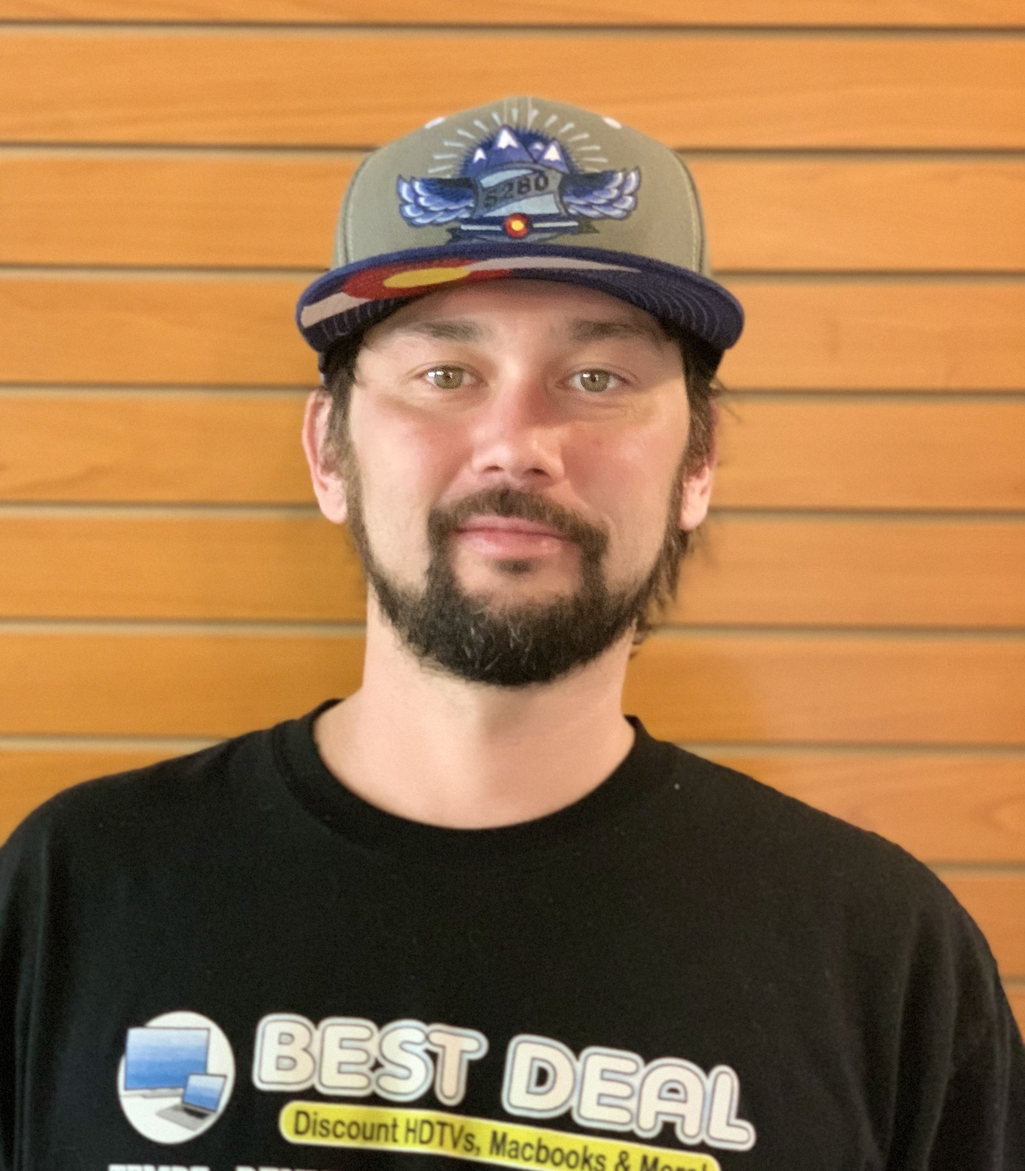
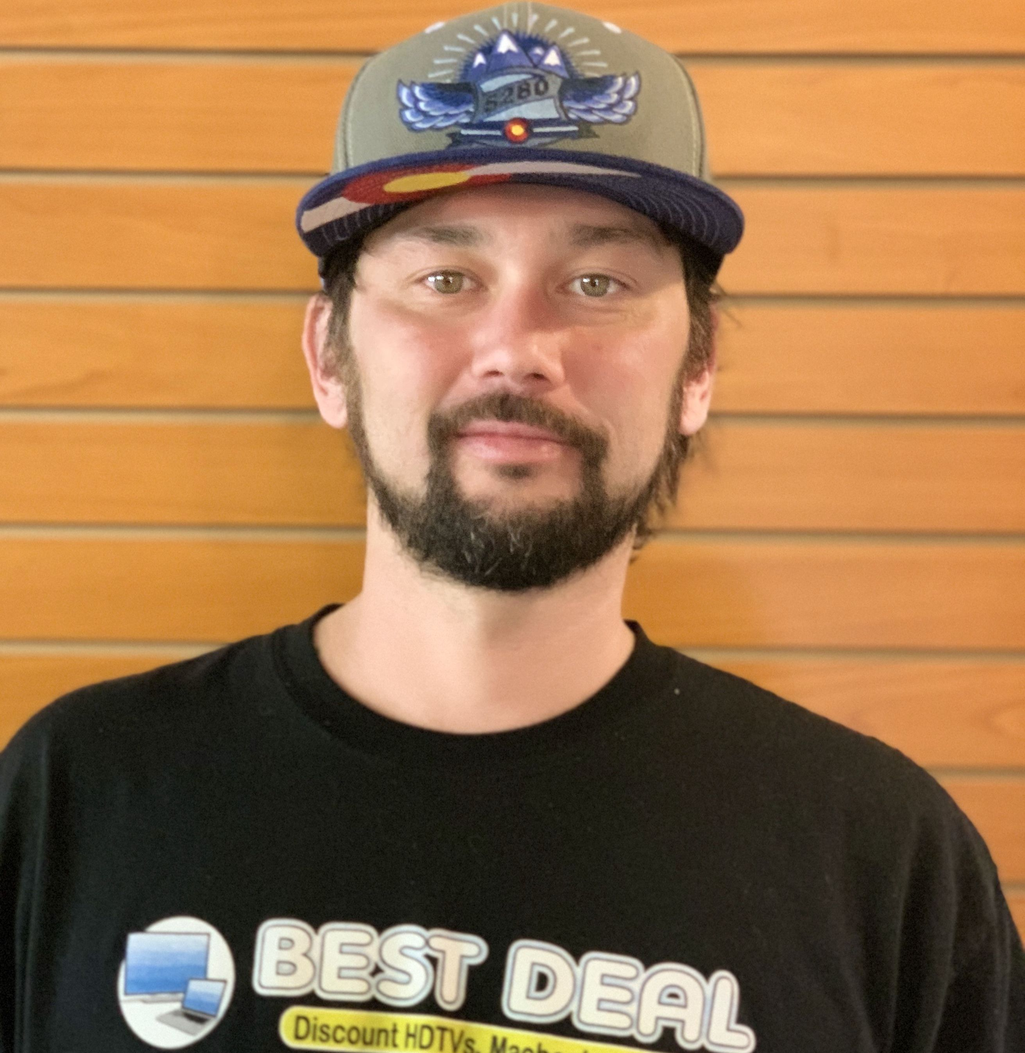
added photos

diff --git a/bdd/sang.html b/bdd/sang.html
@@ -30,7 +30,7 @@
 				<div id="spacer" class="body-head-container-img">
 				</div>
 				<div class="body-head-container-img">
-					<img id="profileImg" src="../assets/icons/happy.png" alt="profile img">
+					<img id="profileImg" src="../assets/photos/sang.jpg" alt="profile img">
 				</div>
 				<div class="body-head-container-info">
 					<h2 id="cardName">Sang Park</h2>
@@ -68,7 +68,7 @@
 						<img class="list-img" src="../assets/icons/contact_icons/png/011-smartphone-1.png" alt="phone Icon">
 						<div class=" ">
 							<div class="contact-list-item contact-number">
-								<a onclick="message()" > (720) 236-8795</a>
+								<a onclick="message()" > (703) 401-1271</a>
 								<span>Message Me</span>
 							</div>
 							<div class="contact-list-item contact-number">
@@ -83,7 +83,7 @@
 						<img class="list-img" src="../assets/icons/contact_icons/png/013-mail.png" alt="Email Icon">
 						<div class=" contact-email">
 							<div class="contact-list-item ">
-								<a>danielbestdeal@gmail.com</a>
+								<a>bestdealsang@gmail.com</a>
 								<h5>Drop Me A Line</h5>
 							</div>
 						</div>

diff --git a/styling/index.css b/styling/index.css
@@ -12,7 +12,7 @@ Header Section SHA256:XW4q/i4aMQKKoVg70uVGPlQQdvqYzhmMOLgSsQrNl4A
 
 body {
 	/* background: url("https://bestdealdenver.com/image/data/cosyone_sample/1slide.jpg") no-repeat; */
-	background-color: rgba(240,240,240,1);
+	background-color: rgba(240,235,230,1);
 	/* background-size: cover; */
 	text-align: center;
 	/* background-position: center; */
@@ -56,6 +56,8 @@ body {
 
 #profileImg {
 	width: 50%;
+	height: 50%;
+	border-radius: 50%;
 }
 
 

diff --git a/bdd/james.html b/bdd/james.html
@@ -28,7 +28,7 @@
 				<div id="spacer" class="body-head-container-img">
 				</div>
 				<div class="body-head-container-img">
-					<img id="profileImg" src="../assets/icons/happy.png" alt="profile img">
+					<img id="profileImg" src="../assets/photos/james-bdd.jpg" alt="profile img">
 				</div>
 				<div class="body-head-container-info">
 					<h2>James Keck</h2>

diff --git a/bdd/dan.html b/bdd/dan.html
@@ -28,7 +28,7 @@
 				<div id="spacer" class="body-head-container-img">
 				</div>
 				<div class="body-head-container-img">
-					<img id="profileImg" src="../assets/icons/happy.png" alt="profile img">
+					<img id="profileImg" src="../assets/photos/dan.jpg" alt="profile img">
 				</div>
 				<div class="body-head-container-info">
 					<h2>Dan Hoffman</h2>
